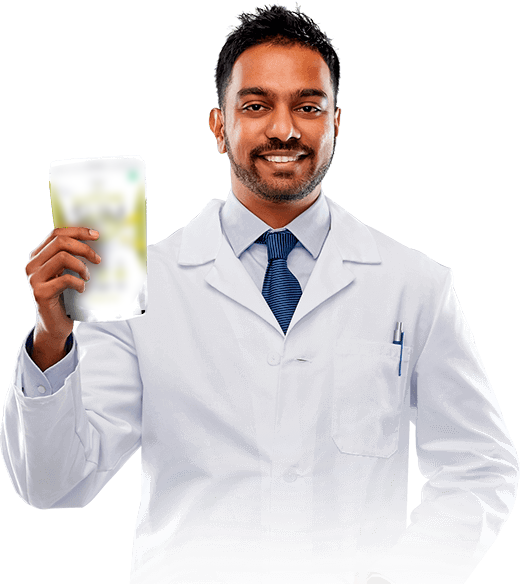
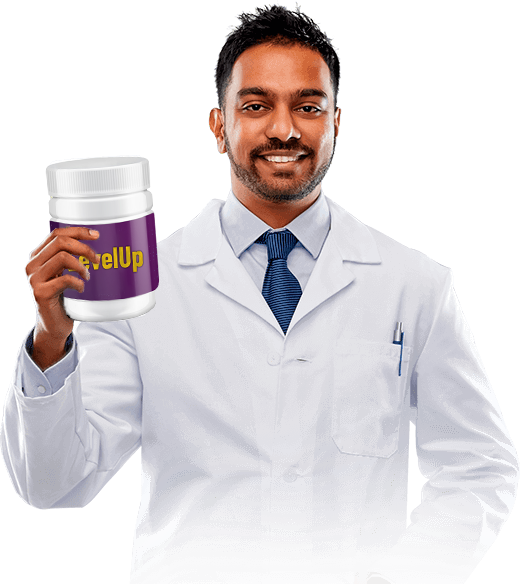
end

Changed region(s): [[0.0923, 0.2466, 0.3077, 0.6164], [0.0308, 0.5548, 0.0615, 0.6164], [0.0615, 0.6164, 0.0923, 0.6473]]

diff --git a/css/style.css b/css/style.css
@@ -56,7 +56,7 @@ ul, li {
 	position: relative;
 	z-index: 3;
 }
-.header__title {
+.header__title, .footer__title {
 	color: orange;
 	font-weight: 500;
 	font-size: 64px;
@@ -64,7 +64,7 @@ ul, li {
 	margin-bottom: 60px;
 	margin-top: 30px;
 }
-.header__title span {
+.header__title span, .footer__title span {
 	color: purple;
 }
 .header__inner {
@@ -114,11 +114,11 @@ ul, li {
 .header__item-list li + li {
 	margin-top: 20px;
 }
-.header__form-btn {
+.form-btn {
 	margin-top: 60px;
 	text-align: center;
 }
-.header__form-btn button{
+.form-btn button{
 	background-color: purple;
 	border-radius: 20px;
 	padding: 10px 25px;
@@ -262,11 +262,155 @@ ul, li {
 
 /* feedback end */
 
+/* promo start */
+
+.promo {
+	background: linear-gradient(to right, #800080, #ffc0cb);
+	padding: 60px 0;
+}
+.promo__box {
+	display: flex;
+	justify-content: space-between;
+}
+.promo__box-left {
+	max-width: 50%;
+	width: 100%;
+}
+.promo__box-left img {
+	width: 100%;
+	height: auto;
+}
+.promo__box-right {
+	margin-left: 20px;
+	max-width: 50%;
+	width: 100%;
+	color: #fff;
+	font-size: 20px;
+}
+.promo__list {
+	margin-top: 40px;
+}
+.promo__list ul {
+	display: flex;
+	justify-content: space-between;
+	font-size: 24px;
+	color: #fff;
+}
+
+/* promo end */
+
+/* footer start */
+
+.footer {
+	padding-top: 15px;
+	padding-bottom: 60px;
+	background: linear-gradient(to right, #20002c, #cbb4d4);
+}
+.countdown {
+  color: #fff;
+  display: block;
+  font-weight: 100;
+  text-align: center;
+  font-size: 30px;
+  margin-bottom: 30px;
+}
+.countdown-number {
+  padding: 10px;
+  border-radius: 3px;
+  background: #00bf96;
+  display: inline-block;
+}
+.countdown-time {
+  padding: 15px;
+  border-radius: 3px;
+  background: #00816a;
+  display: inline-block;
+}
+.countdown-text {
+  display: block;
+  padding-top: 5px;
+  font-size: 16px;
+}
+.footer__box {
+	display: flex;
+	margin-left: -20px;
+}
+.footer__box-left, .footer__box-right {
+	max-width: calc(50% - 20px);
+	width: 100%;
+	margin-left: 20px;
+}
+.footer__product {
+	height: 250px;
+	text-align: center;	
+}
+.footer__product img {
+	height: 100%;
+}
+.footer__price {
+	text-align: center;
+	margin-top: 30px;
+	color: #fff;
+}
+.footer__price .old__price {
+	text-decoration: line-through;
+	font-size: 24px;
+	display: inline-block;
+}
+.footer__price .new__price {
+	color: red;
+	display: inline-block;
+	font-size: 56px;
+	animation-name: newprice;
+	animation-duration: 1s;
+	animation-direction: alternate;
+	animation-iteration-count: infinite;
+}
+.footer__box-right {
+	background-color: rgba(255, 255, 255, 0.8);
+	border-radius: 20px;
+	padding: 20px;
+	box-shadow: 3px 3px 15px #000;
+}
+.form input{
+	display: block;
+	background-color: transparent;
+	border: 2px solid purple;
+	width: 100%;
+	padding: 10px;
+	border-radius: 20px;
+	margin-bottom: 20px;
+	outline: none;
+}
+.form button {
+	margin: 0 auto;
+	display: block;
+	font-size: 24px;
+	padding: 10px 25px;
+	border-radius: 20px;
+	background-color: purple;
+	text-transform: uppercase;
+	cursor: pointer;
+}
+
+/* footer end */
+
+
+/* animation */
+
 @keyframes formbtn {
 	from {
 		transform: scale(1.0);
 	}
 	to {
 		transform: scale(1.1);
+	}
+}
+@keyframes newprice {
+	from {
+		transform: rotate(5deg);
+	}
+	to {
+		transform: rotate(-5deg);
 	}
 }

diff --git a/index.html b/index.html
@@ -41,7 +41,7 @@
 						</ul>
 					</div>
 				</div>
-				<div class="header__form-btn">
+				<div class="form-btn">
 					<button>Заказать</button>
 				</div>
 			</div>
@@ -112,7 +112,7 @@
 					</div>
 				</div>
 			</div>
-			<div class="header__form-btn">
+			<div class="form-btn">
 				<button>Заказать</button>
 			</div>
 		</div>
@@ -195,6 +195,69 @@
 			</div>
 		</div>
 	</section>
+	<section class="promo">
+		<div class="container">
+			<div class="promo__box">
+				<div class="promo__box-left">
+					<img src="images/doctor.png" alt="doctor">
+				</div>
+				<div class="promo__box-right">
+					Lorem ipsum, dolor, sit amet consectetur adipisicing elit. Cum quaerat voluptatum minus ipsa quam perspiciatis officiis hic cumque! Accusamus, doloremque. In quia aut obcaecati iste vel rem similique magni, sequi.
+					Sequi atque eius aperiam id, reprehenderit voluptatum consectetur debitis dicta vel soluta ratione numquam provident ea saepe quasi rerum inventore, sed ullam quod praesentium aliquam voluptatem, libero a! Ab, corporis.
+					Sequi atque eius aperiam id, reprehenderit voluptatum consectetur debitis dicta vel soluta ratione numquam provident ea saepe quasi rerum inventore, sed ullam quod praesentium aliquam voluptatem, libero a! Ab, corporis.
+				</div>
+			</div>
+			<div class="promo__list">
+				<ul>
+					<li>Lorem, ipsum, dolor.</li>
+					<li>Lorem, ipsum, dolor.</li>
+					<li>Lorem, ipsum, dolor.</li>
+				</ul>
+			</div>
+			<div class="form-btn">
+				<button>Заказать</button>
+			</div>
+		</div>
+	</section>
+	<footer class="footer">
+		<div class="container">
+			<div class="footer__title">
+				Level<span>Up</span>
+			</div>
+			<div id="countdown" class="countdown">
+			  <div class="countdown-number">
+			    <span class="hours countdown-time"></span>
+			    <span class="countdown-text">Hours</span>
+			  </div> 	
+			  <div class="countdown-number">
+			    <span class="minutes countdown-time"></span>
+			    <span class="countdown-text">Minutes</span>
+			  </div>
+			  <div class="countdown-number">
+			    <span class="seconds countdown-time"></span>
+			    <span class="countdown-text">Seconds</span>
+			  </div>
+			</div>
+			<div class="footer__box">
+				<div class="footer__box-left">
+					<div class="footer__product">
+						<img src="images/prod.png" alt="product">
+					</div>
+					<div class="footer__price">
+						<span class="old__price">1999</span>
+						<span class="new__price">1500</span>
+					</div>
+				</div>
+				<div class="footer__box-right">
+					<form class="form" action="" method="">
+						<input type="text" placeholder="Имя">
+						<input type="text" placeholder="Телефон" class="number-input">
+						<button type="submit">Заказать</button>
+					</form>
+				</div>
+			</div>
+		</div>
+	</footer>
 
 	<script src="https://unpkg.com/swiper@7/swiper-bundle.min.js"></script>
 	<script src="js/main.js"></script>

diff --git a/js/main.js b/js/main.js
@@ -12,3 +12,61 @@ const swiper = new Swiper('.swiper', {
     el: '.swiper-pagination',
   }
 });
+
+
+// timer
+
+function getTimeRemaining(endtime) {
+  var t = Date.parse(endtime) - Date.parse(new Date());
+  var seconds = Math.floor((t / 1000) % 60);
+  var minutes = Math.floor((t / 1000 / 60) % 60);
+  var hours = Math.floor((t / (1000 * 60 * 60)) % 24);
+  return {
+    'total': t,
+    'hours': hours,
+    'minutes': minutes,
+    'seconds': seconds
+  };
+}
+ 
+function initializeClock(id, endtime) {
+  var clock = document.getElementById(id);
+  var hoursSpan = clock.querySelector('.hours');
+  var minutesSpan = clock.querySelector('.minutes');
+  var secondsSpan = clock.querySelector('.seconds');
+ 
+  function updateClock() {
+    var t = getTimeRemaining(endtime);
+    hoursSpan.innerHTML = ('0' + t.hours).slice(-2);
+    minutesSpan.innerHTML = ('0' + t.minutes).slice(-2);
+    secondsSpan.innerHTML = ('0' + t.seconds).slice(-2);
+ 
+    if (t.total <= 0) {
+      clearInterval(timeinterval);
+    }
+  }
+ 
+  updateClock();
+  var timeinterval = setInterval(updateClock, 1000);
+}
+ 
+var deadline = new Date(Date.parse(new Date()) + 30 * 60 * 1000); // for endless timer
+initializeClock('countdown', deadline);
+
+// input value number
+
+document.oninput = function() {
+    var input = document.querySelector('.number-input');
+    input.value = input.value.replace (/[^\+\d]/g, '');
+}
+
+// scroll form (если бы было много форм, написал бы через поиск атрибутов, для нахождения определенной формы)
+
+let scrollForm = document.querySelectorAll('.form-btn')
+let form = document.querySelector('.form')
+
+scrollForm.forEach(function(scroll) {
+  scroll.addEventListener('click', function() {
+    form.scrollIntoView({block: "start", behavior: "smooth"});
+  })
+})
